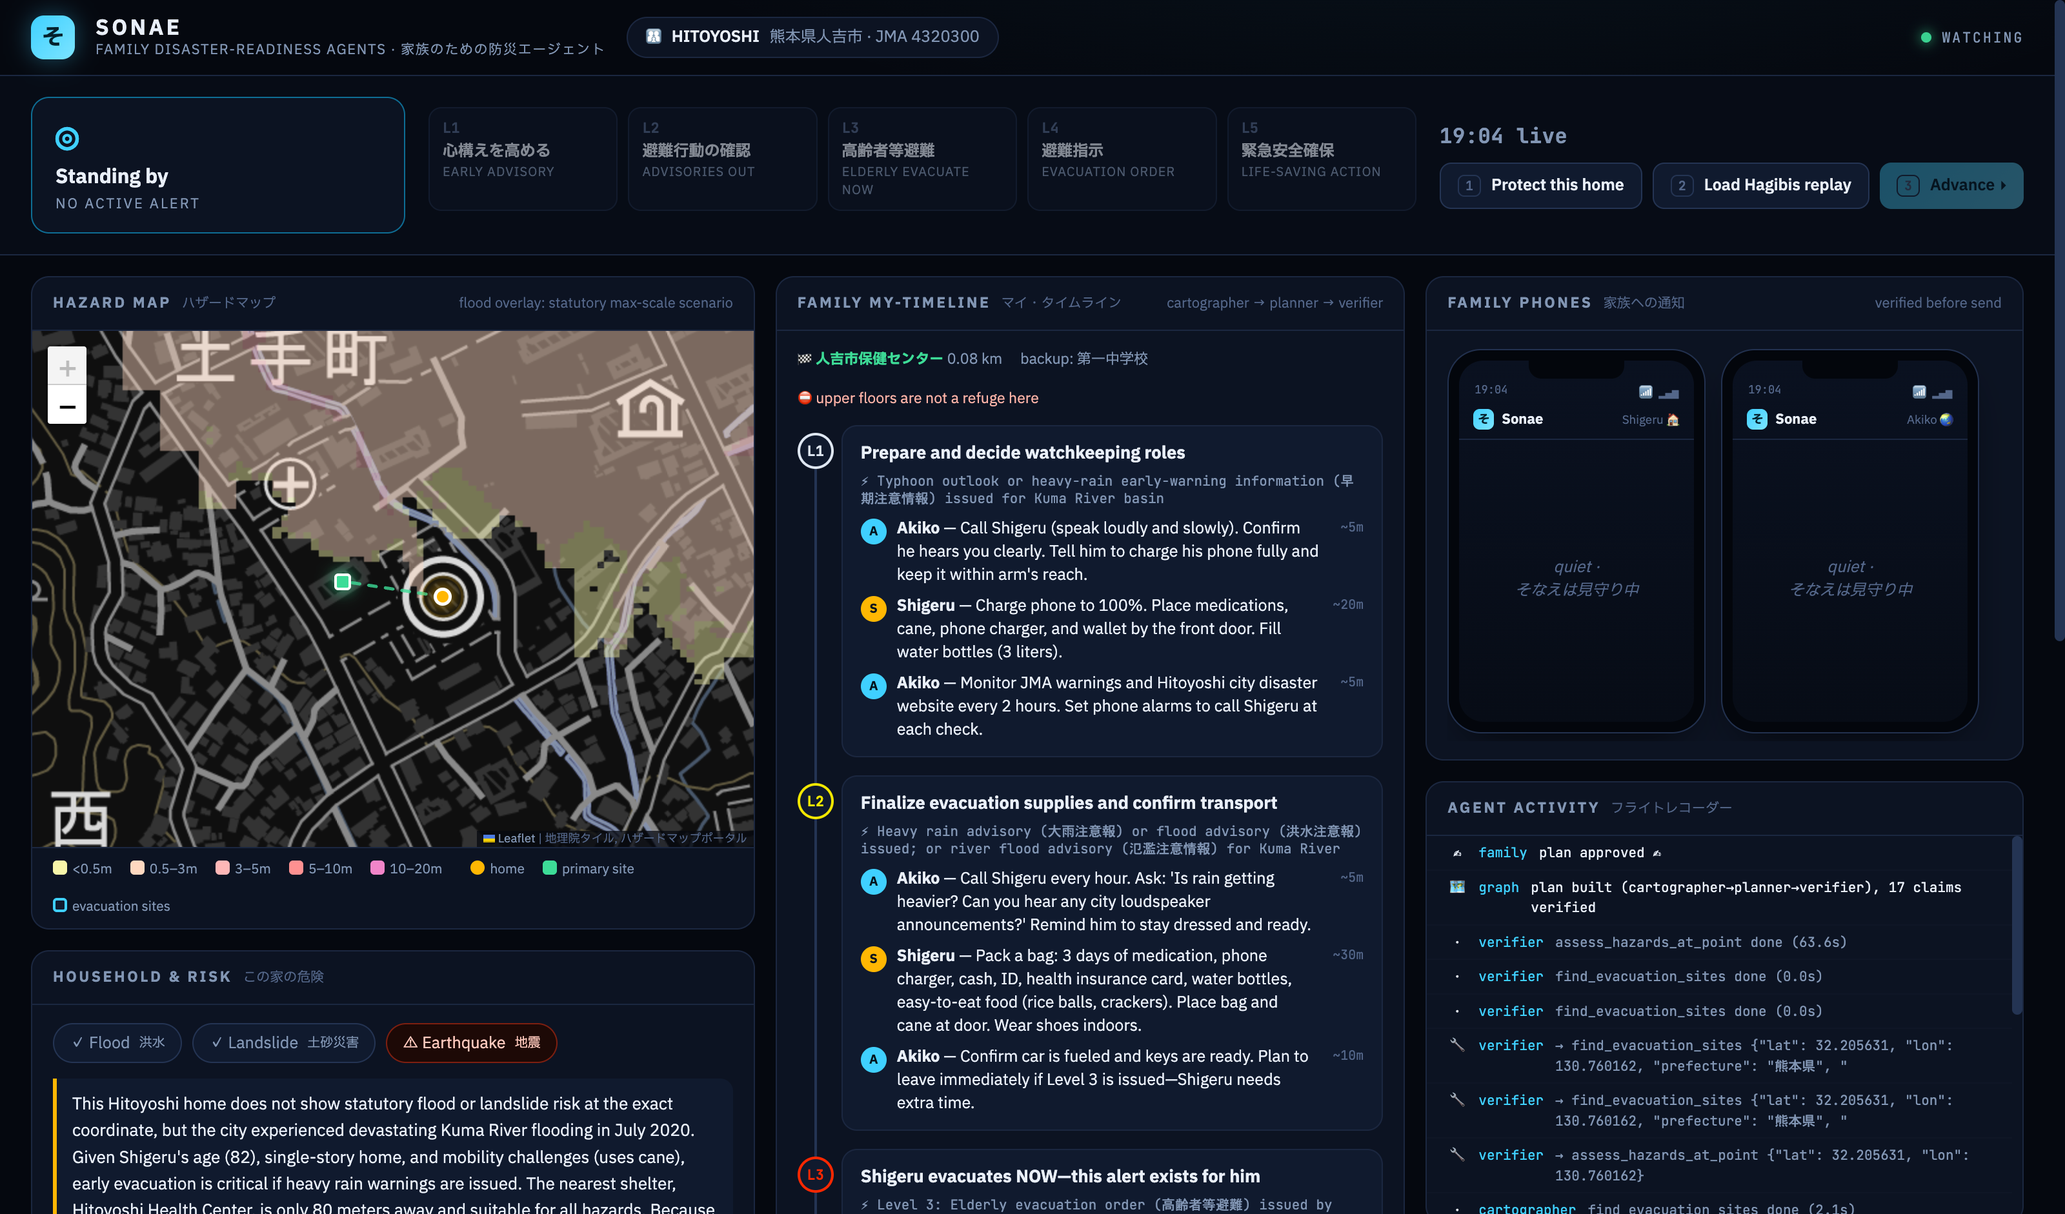
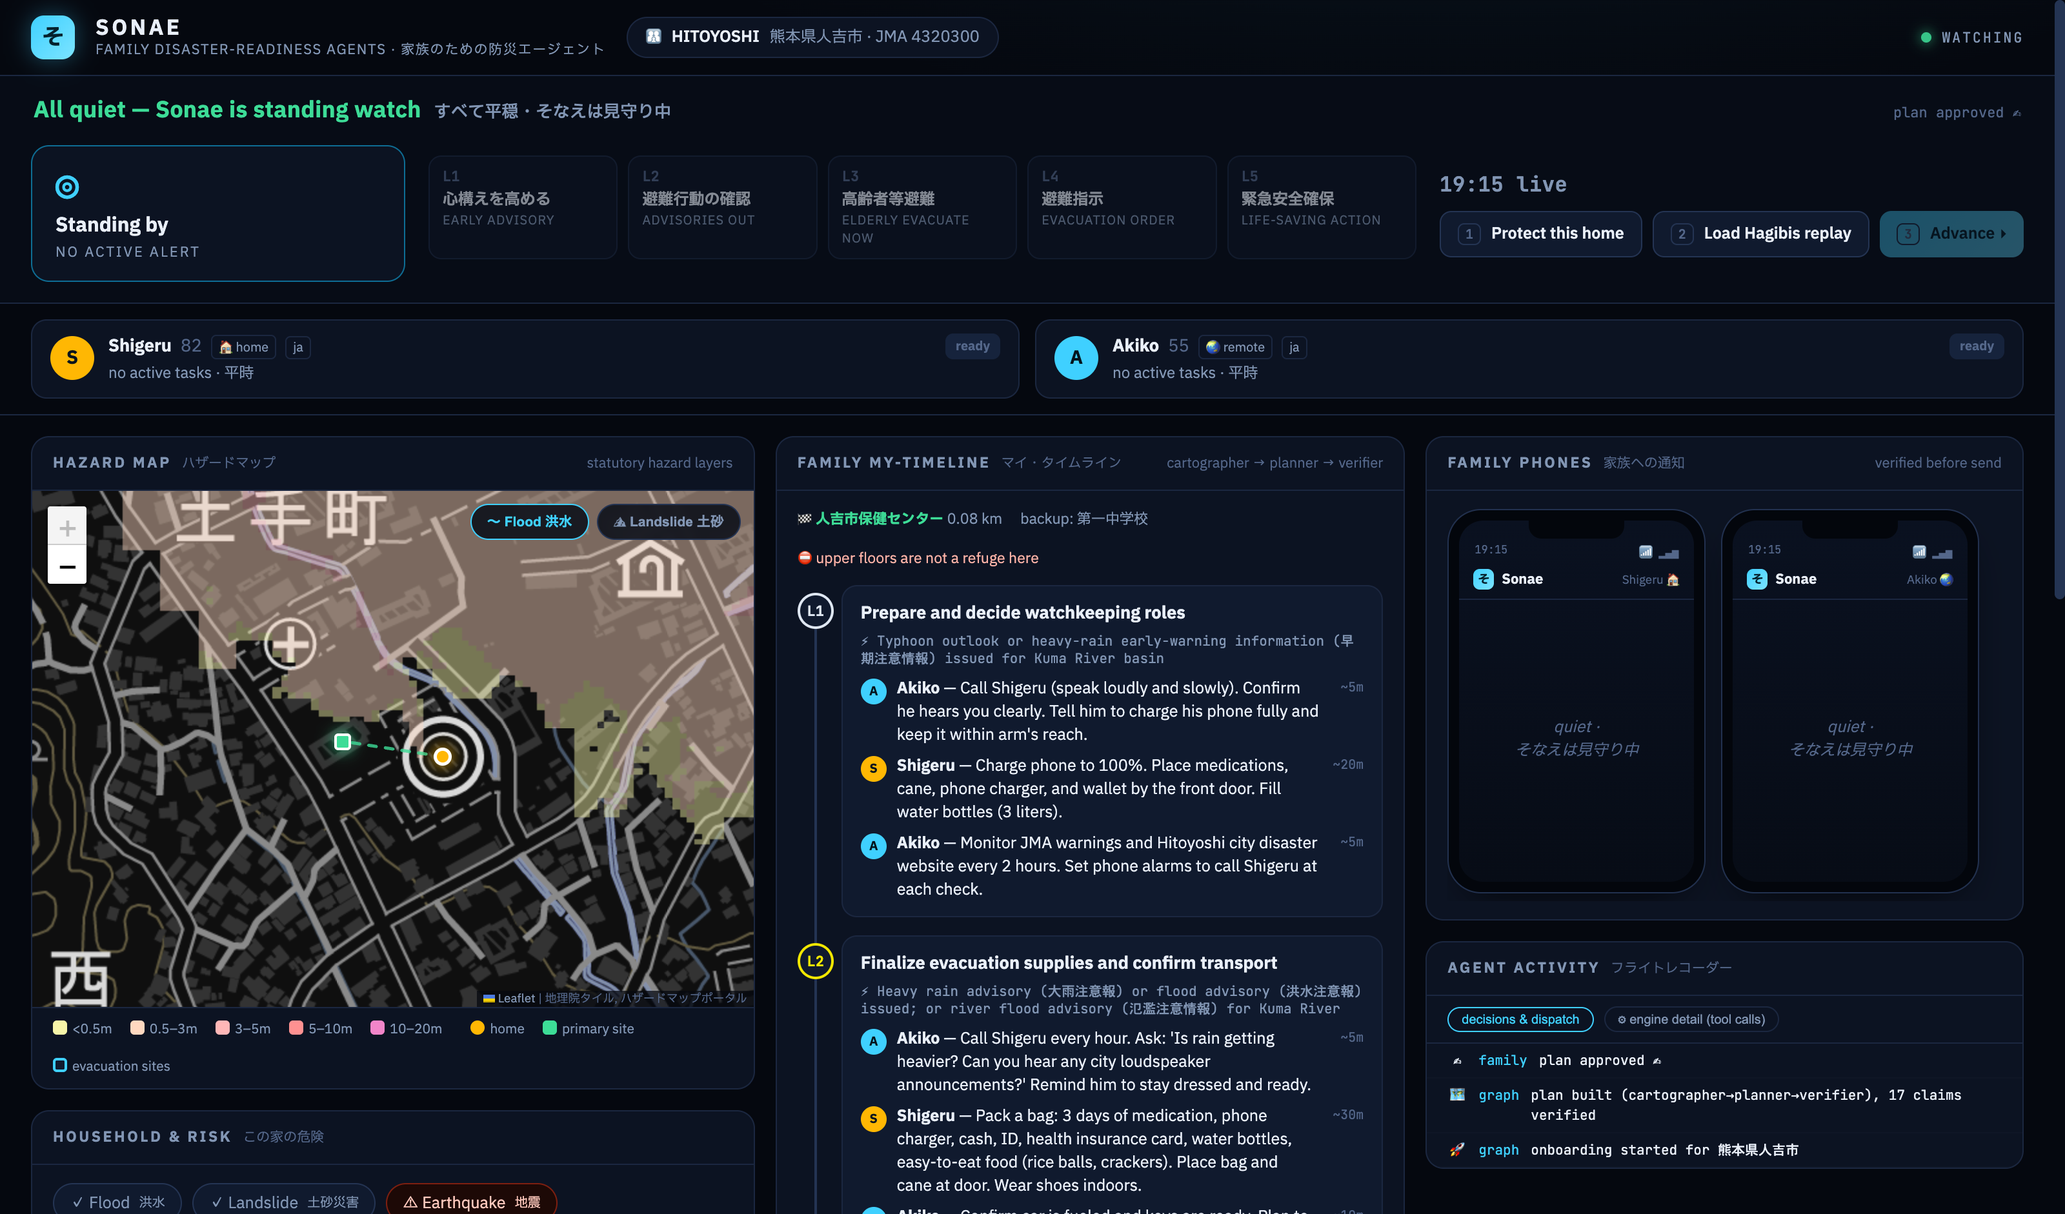
Information-architecture redesign of the dashboard
Patterns borrowed from proven products:
- Statuspage/PagerDuty: full-width plain-language status line ('All quiet —
  Sonae is standing watch' / 'LIFE-SAVING ACTION (Level 5)') with last-check
  and delivery metadata
- Life360: people-first family strip — each member's card shows their
  CURRENT step task and check-in status at a glance
- Linear: progressive disclosure in the timeline — during an event only the
  active and next steps are expanded; completed steps collapse to one line
  (click to expand); calm state shows everything for plan review
- Windy: hazard-layer toggle chips on the map (flood / landslide)
- PagerDuty/Datadog: activity feed defaults to decisions & dispatch; tool
  calls behind an 'engine detail' toggle
- Household switcher in the header (/api/households) now that multiple
  protected homes exist

Claude-Session: https://claude.ai/code/session_012EETc1sVcuUdF593pMuVPh

diff --git a/src/sonae/web/templates/index.html b/src/sonae/web/templates/index.html
@@ -45,7 +45,47 @@
   .ribbon.show{display:flex}
 
   /* ---------- status band ---------- */
-  .band{display:grid;grid-template-columns:290px 1fr auto;gap:18px;align-items:stretch;padding:16px 24px;border-bottom:1px solid var(--line);background:var(--bg2)}
+  .band{display:grid;grid-template-columns:290px 1fr auto;gap:14px 18px;align-items:stretch;padding:12px 24px 16px;border-bottom:1px solid var(--line);background:var(--bg2)}
+  .statusline{grid-column:1/-1;display:flex;align-items:baseline;gap:14px;padding:2px 2px 0;flex-wrap:wrap}
+  .statusline .big{font-size:17px;font-weight:700;letter-spacing:.01em}
+  .statusline .big .ja{color:var(--dim);font-weight:500;margin-left:10px;font-size:13px}
+  .statusline .meta{margin-left:auto;font-family:var(--mono);font-size:11px;color:var(--faint)}
+  .statusline.s-calm .big{color:var(--green)}
+  .statusline.s-prep .big{color:var(--l2)}
+  .statusline.s-act .big{color:#ff8f83}
+  .statusline.s-life .big{color:#ff5a5a}
+  .statusline.s-idle .big{color:var(--dim)}
+
+  /* ---------- family strip (people-first, Life360 pattern) ---------- */
+  .famstrip{display:flex;gap:12px;padding:12px 24px;border-bottom:1px solid var(--line);overflow-x:auto;background:var(--bg)}
+  .famcard{flex:1;min-width:230px;border:1px solid var(--line);border-radius:12px;background:var(--panel);padding:10px 14px;display:flex;gap:11px;align-items:flex-start}
+  .famcard .ava{width:34px;height:34px;font-size:14px;margin-top:2px}
+  .famcard .who{font-size:13px;font-weight:700;display:flex;gap:7px;align-items:baseline;flex-wrap:wrap}
+  .famcard .who .tag{font-size:9.5px;color:var(--dim);border:1px solid var(--line);border-radius:4px;padding:1px 5px;font-weight:400}
+  .famcard .task{font-size:11.5px;color:var(--dim);line-height:1.45;margin-top:3px;display:-webkit-box;-webkit-line-clamp:2;-webkit-box-orient:vertical;overflow:hidden}
+  .famcard .task b{color:var(--text);font-weight:600}
+  .famcard .ci{margin-left:auto;flex:none;font-size:9.5px;font-weight:700;border-radius:6px;padding:3px 8px;align-self:flex-start;white-space:nowrap}
+  .famcard .ci.safe{background:rgba(61,220,151,.14);color:var(--green)}
+  .famcard .ci.needs_help{background:rgba(255,90,90,.16);color:#ffb3a7;animation:blink 1.2s infinite}
+  .famcard .ci.pending{background:rgba(255,183,3,.12);color:var(--amber)}
+  .famcard .ci.ready{background:#16233c;color:var(--faint)}
+
+  /* map layer chips (Windy pattern) */
+  .maplayers{position:absolute;top:10px;right:10px;z-index:800;display:flex;gap:6px}
+  .lchip{border:1px solid var(--line2);background:rgba(7,12,22,.85);color:var(--dim);font-size:10.5px;font-weight:600;
+         border-radius:99px;padding:5px 12px;cursor:pointer;backdrop-filter:blur(4px)}
+  .lchip.on{border-color:var(--cyan);color:var(--cyan)}
+  .mapwrap{position:relative}
+
+  /* timeline progressive disclosure */
+  .stepcard.collapsed .trigger,.stepcard.collapsed .acts{display:none}
+  .stepcard{cursor:pointer}
+  .stephead .mini{font-size:10px;color:var(--faint);font-weight:400;margin-left:auto;white-space:nowrap}
+
+  /* feed filter */
+  .feedbar{display:flex;gap:8px;align-items:center;padding:8px 16px;border-bottom:1px solid var(--line)}
+  .fchip{border:1px solid var(--line);background:none;color:var(--dim);font-size:10px;border-radius:99px;padding:3px 10px;cursor:pointer}
+  .fchip.on{border-color:var(--cyan);color:var(--cyan)}
   .plate{border-radius:14px;padding:14px 18px;display:flex;flex-direction:column;justify-content:center;gap:2px;
          border:1px solid var(--line2);background:var(--panel);position:relative;overflow:hidden}
   .plate .lvl{font-family:var(--mono);font-size:30px;font-weight:700;line-height:1}
@@ -91,6 +131,8 @@
   /* ---------- layout ---------- */
   main{display:grid;grid-template-columns:minmax(430px,1.15fr) minmax(400px,1fr) minmax(360px,.95fr);gap:16px;padding:16px 24px;align-items:start}
   @media (max-width:1250px){main{grid-template-columns:1fr 1fr}}
+  @media (max-width:950px){main{grid-template-columns:1fr}.band{grid-template-columns:1fr}.deck{min-width:0}
+    .statusline .meta{margin-left:0;width:100%}.famstrip{flex-wrap:nowrap}}
   .card{background:var(--panel);border:1px solid var(--line);border-radius:14px;margin-bottom:16px;overflow:hidden}
   .card > .hd{display:flex;align-items:baseline;gap:8px;padding:12px 16px;border-bottom:1px solid var(--line)}
   .hd .t{font-size:11px;font-weight:700;letter-spacing:.16em;color:var(--dim)}
@@ -251,7 +293,9 @@
 <header>
   <div class="mark">そ</div>
   <div class="brand"><b>SONAE</b><small>FAMILY DISASTER-READINESS AGENTS · 家族のための防災エージェント</small></div>
-  <div class="hh-chip" id="hhChip">👨👩👧 <b>—</b><span id="hhAddr">not onboarded</span></div>
+  <div class="hh-chip" id="hhChip" style="cursor:pointer" onclick="toggleHhMenu()">👨👩👧 <b>—</b><span id="hhAddr">not onboarded</span> <span style="color:var(--faint)">▾</span></div>
+  <div id="hhMenu" style="display:none;position:absolute;top:56px;left:50%;transform:translateX(-50%);z-index:1200;
+       background:var(--panel);border:1px solid var(--line2);border-radius:12px;min-width:320px;box-shadow:0 20px 50px -18px #000;overflow:hidden"></div>
   <div class="spacer"></div>
   <div class="watching" id="watching"><span class="dot"></span><span id="watchLabel">STANDBY</span></div>
 </header>
@@ -259,6 +303,10 @@
 <div class="ribbon" id="ribbon">⏮ HISTORICAL REPLAY — reconstructed from official post-event records · タイムスタンプは公式記録どおり</div>
 
 <div class="band">
+  <div class="statusline s-idle" id="statusline">
+    <span class="big" id="statusBig">…</span>
+    <span class="meta" id="statusMeta"></span>
+  </div>
   <div class="plate c0" id="plate">
     <div class="lvl" id="plateLvl">—</div>
     <div class="name" id="plateName">Standing by</div>
@@ -279,12 +327,20 @@
   </div>
 </div>
 
+<div class="famstrip" id="famStrip" style="display:none"></div>
+
 <main>
   <section>
     <div class="card">
       <div class="hd"><span class="t">HAZARD MAP</span><span class="ja">ハザードマップ</span>
-        <span class="right">flood overlay: statutory max-scale scenario</span></div>
-      <div id="map"></div>
+        <span class="right">statutory hazard layers</span></div>
+      <div class="mapwrap">
+        <div class="maplayers">
+          <button class="lchip on" id="layerFlood" onclick="toggleLayer('flood')">〜 Flood 洪水</button>
+          <button class="lchip" id="layerSlide" onclick="toggleLayer('slide')">⛰ Landslide 土砂</button>
+        </div>
+        <div id="map"></div>
+      </div>
       <div class="maplegend">
         <div class="keyrow">
           <span><span class="sw" style="background:#f7f5a9"></span>&lt;0.5m</span>
@@ -332,6 +388,10 @@
     </div>
     <div class="card">
       <div class="hd"><span class="t">AGENT ACTIVITY</span><span class="ja">フライトレコーダー</span></div>
+      <div class="feedbar">
+        <button class="fchip on" id="fDecisions">decisions & dispatch</button>
+        <button class="fchip" id="fEngine" onclick="toggleEngine()">⚙ engine detail (tool calls)</button>
+      </div>
       <div class="feed" id="feed"><div class="empty">—</div></div>
     </div>
   </section>
@@ -389,6 +449,15 @@ const J_ICON = {tool_call:"🔧", tool_result:"·", sentinel_decision:"👁", no
   plan_approved:"✍", error:"⚠"};
 
 let map, homeMarker, shelterLayer, routeLine, mapReady = false;
+let floodLayer, slideLayer, layersOn = {flood:true, slide:false};
+
+function toggleLayer(which){
+  layersOn[which] = !layersOn[which];
+  document.getElementById(which === "flood" ? "layerFlood" : "layerSlide").classList.toggle("on", layersOn[which]);
+  if(!mapReady) return;
+  const layer = which === "flood" ? floodLayer : slideLayer;
+  if(layersOn[which]) layer.addTo(map); else layer.remove();
+}
 
 function initMap(h, profile, plan){
   if(mapReady || !window.L) return;
@@ -396,8 +465,15 @@ function initMap(h, profile, plan){
         .setView([h.lat, h.lon], 14);
   L.tileLayer("https://cyberjapandata.gsi.go.jp/xyz/pale/{z}/{x}/{y}.png",
     {attribution:"地理院タイル", maxZoom:17, className:"tile-base"}).addTo(map);
-  L.tileLayer("https://disaportaldata.gsi.go.jp/raster/01_flood_l2_shinsuishin_data/{z}/{x}/{y}.png",
-    {attribution:"ハザードマップポータル", maxZoom:17, opacity:.45}).addTo(map);
+  floodLayer = L.tileLayer("https://disaportaldata.gsi.go.jp/raster/01_flood_l2_shinsuishin_data/{z}/{x}/{y}.png",
+    {attribution:"ハザードマップポータル", maxZoom:17, opacity:.45});
+  slideLayer = L.layerGroup([
+    L.tileLayer("https://disaportaldata.gsi.go.jp/raster/05_dosekiryukeikaikuiki/{z}/{x}/{y}.png", {maxZoom:17, opacity:.55}),
+    L.tileLayer("https://disaportaldata.gsi.go.jp/raster/05_kyukeishakeikaikuiki/{z}/{x}/{y}.png", {maxZoom:17, opacity:.55}),
+    L.tileLayer("https://disaportaldata.gsi.go.jp/raster/05_jisuberikeikaikuiki/{z}/{x}/{y}.png", {maxZoom:17, opacity:.55}),
+  ]);
+  if(layersOn.flood) floodLayer.addTo(map);
+  if(layersOn.slide) slideLayer.addTo(map);
   homeMarker = L.marker([h.lat, h.lon], {icon: L.divIcon({className:"", html:
     '<div class="home-pin"><div class="wave"></div><div class="core"></div></div>', iconSize:[14,14], iconAnchor:[7,7]})})
     .addTo(map).bindPopup(`<b>🏠 ${esc(h.address)}</b><br>${esc((h.members.find(m=>m.lives_at_home)||{}).name||"")} lives here`);
@@ -428,6 +504,89 @@ function drawShelters(profile, plan){
       map._sonaeFramed = true;
     }
   }
+}
+
+function renderStatusLine(s, level){
+  const el = $("statusline"), big = $("statusBig"), meta = $("statusMeta");
+  let cls = "s-idle", en = "", ja = "", m = [];
+  const w = s.watch || {};
+  if(!s.household){
+    en = "No home under watch"; ja = "見守り中の家がありません — 住所を登録してください";
+  } else if(!s.plan){
+    cls = "s-idle"; en = "Building the plan…"; ja = "エージェントが計画を作成中";
+  } else if(!s.plan.family_approved){
+    cls = "s-prep"; en = "Plan ready — awaiting your approval"; ja = "計画はできています。家族の承認でSonaeが動き出します";
+  } else if(level === 0){
+    cls = "s-calm"; en = "All quiet — Sonae is standing watch"; ja = "すべて平穏・そなえは見守り中";
+  } else if(level <= 2){
+    cls = "s-prep"; en = `Preparation steps running (Level ${level})`; ja = "警戒 — 準備ステップ実行中";
+  } else if(level === 3){
+    cls = "s-act"; en = "Elderly evacuation in progress (Level 3)"; ja = "高齢者等避難 — 避難を開始しています";
+  } else if(level === 4){
+    cls = "s-act"; en = "Complete the evacuation NOW (Level 4)"; ja = "避難指示相当 — 全員の退避を確認中";
+  } else {
+    cls = "s-life"; en = "LIFE-SAVING ACTION (Level 5)"; ja = "緊急安全確保 — 命を守る行動を";
+  }
+  if(w.last_checked) m.push(`last feed check ${new Date(w.last_checked).toLocaleTimeString("ja-JP",{hour:"2-digit",minute:"2-digit"})}`);
+  if((s.inbox||[]).length) m.push(`${s.inbox.length} verified notification(s) delivered`);
+  if(s.plan && s.plan.family_approved) m.push("plan approved ✍");
+  el.className = `statusline ${cls}`;
+  big.innerHTML = `${esc(en)}<span class="ja">${esc(ja)}</span>`;
+  meta.textContent = m.join(" · ");
+}
+
+function stepTaskFor(plan, member, level){
+  if(!plan || !level) return null;
+  const steps = plan.steps.filter(st => st.alert_level <= level).sort((a,b)=>b.alert_level-a.alert_level);
+  for(const st of steps){
+    const act = st.actions.find(a => a.member === member);
+    if(act) return {level: st.alert_level, text: act.description};
+  }
+  return null;
+}
+
+function renderFamStrip(s, level){
+  const strip = $("famStrip");
+  const h = s.household;
+  if(!h || !s.plan){ strip.style.display = "none"; return; }
+  strip.style.display = "";
+  const ci = {}; for(const c of (s.checkins||[])) ci[c.member] = c.status;
+  strip.innerHTML = h.members.map((m,i) => {
+    const task = stepTaskFor(s.plan, m.name, level);
+    const status = ci[m.name];
+    const chip = status === "safe" ? '<span class="ci safe">✓ SAFE</span>'
+      : status === "needs_help" ? '<span class="ci needs_help">⚠ HELP</span>'
+      : status === "pending" || status === "no_response" ? '<span class="ci pending">? UNCONFIRMED</span>'
+      : `<span class="ci ready">${level ? "on task" : "ready"}</span>`;
+    return `<div class="famcard">
+      <div class="ava" style="background:${AVA_COLORS[i%AVA_COLORS.length]}">${initial(m.name)}</div>
+      <div style="min-width:0">
+        <div class="who">${esc(m.name)}${m.age?` <span style="color:var(--faint);font-weight:400">${m.age}</span>`:""}
+          <span class="tag">${m.lives_at_home?"🏠 home":"🌏 remote"}</span><span class="tag">${esc(m.preferred_language)}</span></div>
+        <div class="task">${task ? `<b>L${task.level} now:</b> ${esc(task.text)}` : (level ? "standing by" : "no active tasks · 平時")}</div>
+      </div>
+      ${chip}
+    </div>`;
+  }).join("");
+}
+
+let hhMenuLoaded = false;
+async function toggleHhMenu(){
+  const menu = $("hhMenu");
+  if(menu.style.display !== "none"){ menu.style.display = "none"; return; }
+  const data = await (await fetch("/api/households")).json();
+  menu.innerHTML = data.households.map(r => `
+    <div onclick="location.search='?household=${esc(r.id)}'"
+         style="display:flex;gap:10px;align-items:center;padding:11px 16px;cursor:pointer;font-size:12.5px;
+                border-bottom:1px solid var(--line);${r.id===HOUSEHOLD?"background:var(--panel2)":""}">
+      <b style="min-width:76px">${esc(r.id.toUpperCase())}</b>
+      <span style="color:var(--dim);flex:1">${esc(r.address)}</span>
+      <span class="badge b${Math.max(1, r.level||1)}" style="${r.level?"":"opacity:.25"}">${r.level ? "L"+r.level : "—"}</span>
+    </div>`).join("") +
+    `<div onclick="$('hhMenu').style.display='none';openOnboard()"
+         style="padding:11px 16px;cursor:pointer;font-size:12px;color:var(--cyan)">＋ Protect another home · 別の家を見守る</div>`;
+  menu.style.display = "";
+  hhMenuLoaded = true;
 }
 
 function renderBand(level, s){
@@ -477,6 +636,14 @@ function renderRisk(s){
   $("riskBody").innerHTML = html;
 }
 
+const tlManual = {};
+function tlToggle(lvl){
+  const current = (lvl in tlManual) ? tlManual[lvl] : null;
+  // flip relative to what is currently rendered
+  const card = event && event.currentTarget;
+  tlManual[lvl] = card ? card.classList.contains("collapsed") : !current;
+}
+
 function renderPlan(s, level){
   const plan = s.plan;
   if(!plan) return;
@@ -489,11 +656,17 @@ function renderPlan(s, level){
   </div>`;
   html += `<div class="tl">` + plan.steps.map(st => {
     const state = level>st.alert_level ? "done" : (level===st.alert_level ? "active" : "");
+    // Progressive disclosure: calm = review everything; during an event focus
+    // on the active step and the next one. Clicking a step overrides.
+    const auto = level === 0 || state === "active" || st.alert_level === level + 1;
+    const expanded = (st.alert_level in tlManual) ? tlManual[st.alert_level] : auto;
+    const mini = expanded ? "" :
+      `<span class="mini">${state==="done"?"✓ completed · ":""}${st.actions.length} action(s) — click to expand</span>`;
     return `<div class="node k${st.alert_level} ${state}">
       <div class="pin">L${st.alert_level}</div>
-      <div class="stepcard">
+      <div class="stepcard ${expanded?"":"collapsed"}" onclick="tlToggle(${st.alert_level})">
         <div class="stephead">${esc(st.headline)}
-          ${state==="active"?'<span class="chip act">ACTIVE</span>':""}${state==="done"?'<span class="chip done">DONE</span>':""}</div>
+          ${state==="active"?'<span class="chip act">ACTIVE</span>':""}${state==="done"&&expanded?'<span class="chip done">DONE</span>':""}${mini}</div>
         <div class="trigger">⚡ ${esc(st.trigger)}</div>
         <div class="acts">${st.actions.map(a => `
           <div class="act"><div class="ava" style="background:${avatarColor(a.member, members)}">${initial(a.member)}</div>
@@ -601,8 +774,15 @@ async function renderCircle(circleId){
   }catch(e){/* keep old render */}
 }
 
+let showEngine = false;
+function toggleEngine(){
+  showEngine = !showEngine;
+  document.getElementById("fEngine").classList.toggle("on", showEngine);
+}
+
 function renderFeed(journal){
-  $("feed").innerHTML = (journal||[]).slice().reverse().map(j => {
+  const rows = (journal||[]).filter(j => showEngine || (j.kind !== "tool_call" && j.kind !== "tool_result"));
+  $("feed").innerHTML = rows.slice().reverse().map(j => {
     let who = j.agent || "", what = "", cls = "";
     switch(j.kind){
       case "tool_call": what = `→ ${j.tool} ${esc((j.input||"").slice(0,60))}`; break;
@@ -689,6 +869,8 @@ async function tick(){
   try{
     const s = await (await fetch(`/api/state?household=${HOUSEHOLD}`)).json();
     const level = (s.watch && s.watch.activated_level) || 0;
+    renderStatusLine(s, level);
+    renderFamStrip(s, level);
     renderBand(level, s);
     renderRisk(s);
     renderPlan(s, level);

diff --git a/src/sonae/web/app.py b/src/sonae/web/app.py
@@ -48,6 +48,27 @@ def index() -> str:
     return _TEMPLATE.read_text()
 
 
+@app.get("/api/households")
+def households() -> dict:
+    """Protected homes (those with a generated plan), for the header switcher."""
+    rows = []
+    for hid in HouseholdStore.list_households():
+        store = HouseholdStore(hid)
+        plan = store.load_plan()
+        if plan is None:
+            continue  # circle-member fixtures without plans are not 'protected homes'
+        h = store.load_household()
+        rows.append(
+            {
+                "id": hid,
+                "address": h.address if h else hid,
+                "approved": plan.family_approved,
+                "level": store.load_watch().activated_level,
+            }
+        )
+    return {"households": rows}
+
+
 def _find_circle(household: str):
     for cid in circles.list_circles():
         c = circles.load_circle(cid)
